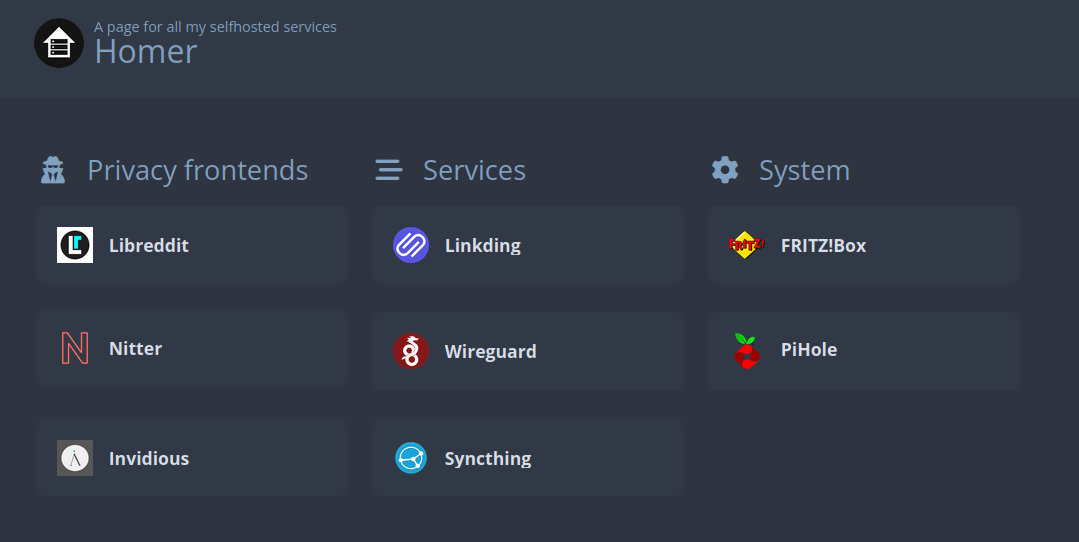
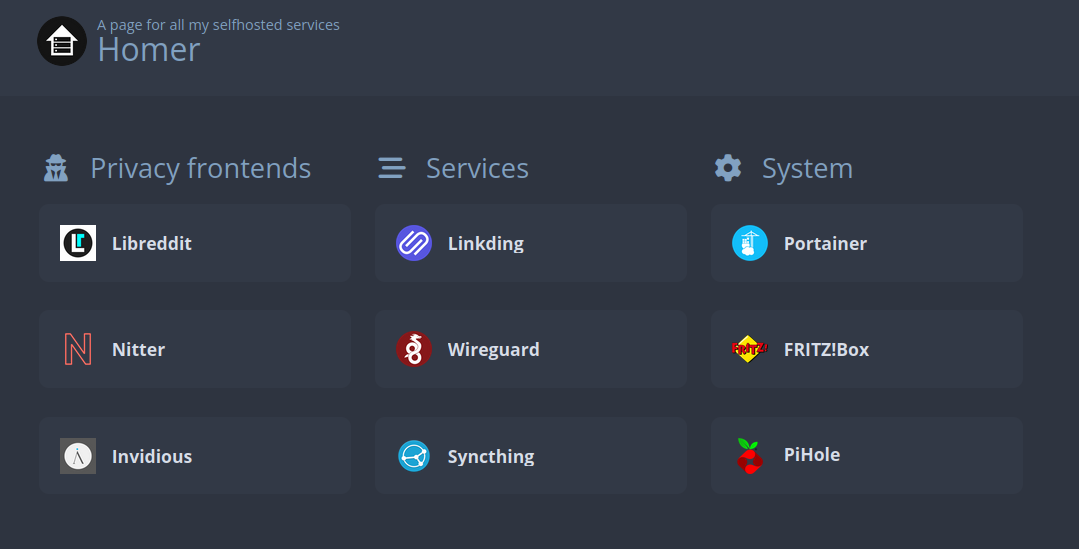
Updated README.md

diff --git a/README.md b/README.md
@@ -1,44 +1,60 @@
 # Home selfhosting using Ansible
+
 This is the setup I use for selfhosting my favourite services on my home server.
 
 ![Homer homepage](.github/homer.png)
 
-### Getting Started
+## Getting Started
+
 To get started with this project, clone the repository.
 Then you'll need a Debian 11 system with SSH access configured.
 
-### Prerequisites
+## Prerequisites
 
 - Debian 11 (for the server)
 - Ansible >2.14 (on your machine)
 
-### Deployment
+## Deployment
+
 To run the Ansible Playbook on your server run the following commmand:
-```
+
+```bash
 ansible-playbook run.yml -i inventory
 ```
+
 Where `inventory` contains your host configuration, see `inventory.example` for a sample configuration.
 
-### Included services
-#### Frontends
+## Included services
+
+### Frontends
+
 - [Libreddit](https://github.com/libreddit/libreddit) (Private front-end for Reddit)
 - [Nitter](https://github.com/zedeus/nitter) (Alternative Twitter front-end)
 - [Invidious](https://github.com/iv-org/invidious) (Invidious is an alternative front-end to YouTube)
 
-#### Services
+### Services
+
 - [Linkding](https://github.com/sissbruecker/linkding) (Self-hosted bookmark service)
 - [Wireguard UI](https://github.com/ngoduykhanh/wireguard-ui) (Wireguard web interface)
 - [Syncthing](https://github.com/syncthing/syncthing) (Open Source Continuous File Synchronization)
 
-### Security
+### System
+
+- [Portainer](https://github.com/portainer/portainer) (Making Docker and Kubernetes management easy)
+
+## Security
+
 This configuration is intended to be used within your local network or via a Wireguard VPN connection.
 The secure HTTPS protocol is not currently used, so it is strongly discouraged to expose the ports of services on the Internet, because all traffic will be sent unencrypted.
 
-### Hardware
+## Hardware
+
 The hardware I use is a Fujitsu Futro S920, with the following configuration:
+
 - CPU: AMD GX-415GA SOC (4 core) @ 1.5GHz
 - RAM: 4GB DDR3
-- SSD: 120GB Crucial mSata 
+- SSD: 120GB Crucial mSata
 
-### Acknowledgments
+## Acknowledgments
+
 Thanks to [@notthebee](https://github.com/notthebee) for inspiring me with his [video](https://www.youtube.com/watch?v=f5jNJDaztqk).
